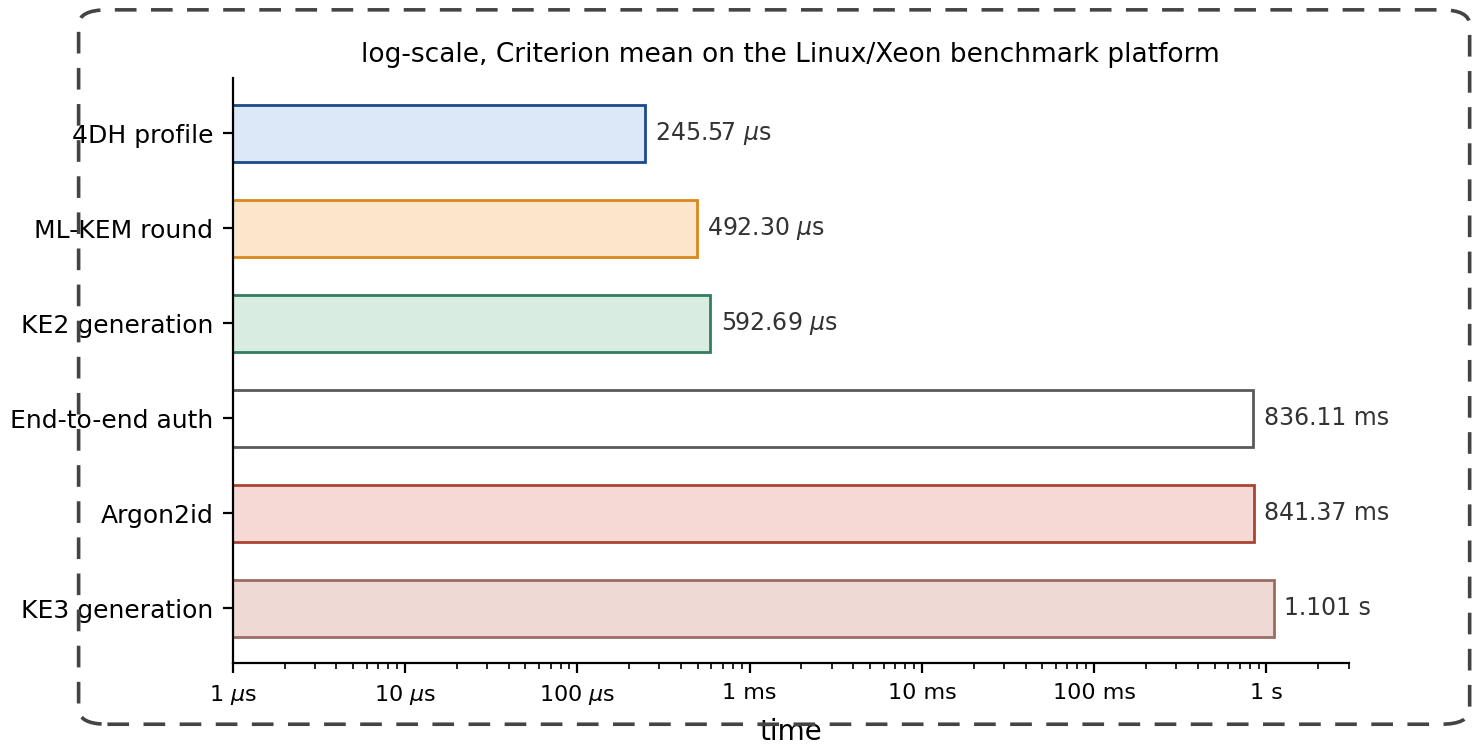
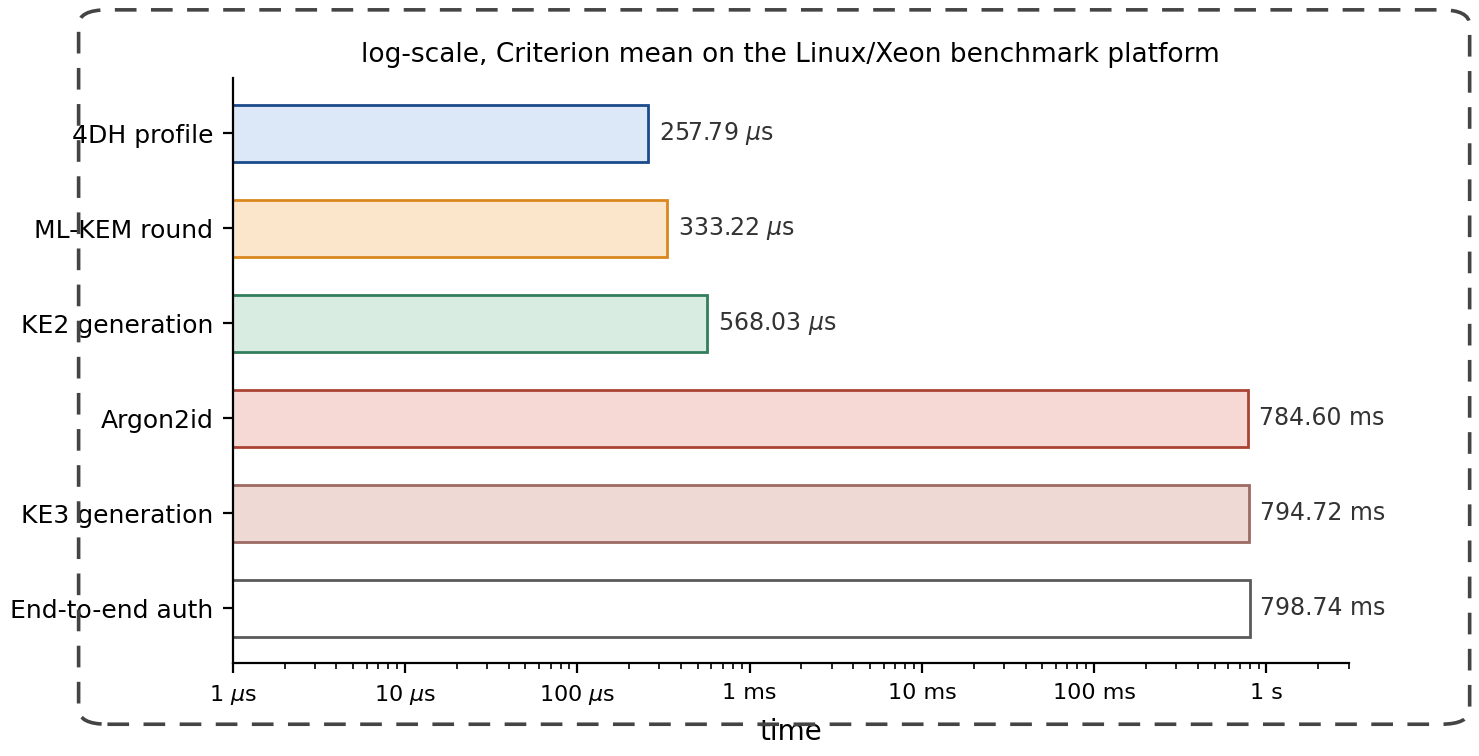
Sync benchmarks to a single-run measurement set; add KSF-variance caveat
- Replace micro-bench and protocol-bench tables with one coherent Criterion
  run on the Linux/Xeon platform. Resolves the prior cross-run anomalies:
  4DH 257.79us now exceeds 3DH 194.49us; KE3 794.72ms and registration
  828.64ms; end-to-end 798.74ms now sits at or above isolated Argon2id 784.60ms.
- Update abstract, conclusion, and prose: PQ overhead 365.29us (+46.9%),
  0.046% of end-to-end, responder throughput 1.76e3/s.
- Add a caveat noting the three KSF-dominated rows each reduce to one Argon2id
  call, so tens-of-ms differences are measurement variance, not cost ordering.
- Regenerate Fig 6 from the updated BENCH values.

diff --git a/aPAKE/Hybrid PQ-OPAQUE aPAKE/main_jisa.tex b/aPAKE/Hybrid PQ-OPAQUE aPAKE/main_jisa.tex
@@ -161,7 +161,7 @@ machine-checked proof of implementation correctness.
 
 On the stated Linux/Xeon benchmark platform, the complete hybrid handshake
 occupies 2715~bytes in wire format. End-to-end authentication takes
-836.11~ms, and the post-quantum path without the key-stretching function adds 379.45~$\mu$s. The
+798.74~ms, and the post-quantum path without the key-stretching function adds 365.29~$\mu$s. The
 measurements show that Argon2id dominates latency, while ML-KEM mainly
 affects transport size. The main operational boundary is separation of
 $\sigoprf$ from passive authentication records.
@@ -1637,36 +1637,36 @@ behind this profile.
 \toprule
 Primitive & Operation & $\hat{\mu}$ & 95\% CI \\
 \midrule
-Ristretto255 & Key-pair generation & 41.85~$\mu$s & [39.47; 44.28] \\
-Ristretto255 & Single DH & 75.93~$\mu$s & [74.11; 77.90] \\
-Ristretto255 & 3DH (baseline) & 262.54~$\mu$s & [258.50; 266.58] \\
-Ristretto255 & \textbf{4DH (protocol profile)} & \textbf{245.57~$\mu$s} & [242.98; 249.55] \\
-ML-KEM-768 & Key-pair generation & 151.48~$\mu$s & [147.39; 155.63] \\
-ML-KEM-768 & Encapsulation & 146.50~$\mu$s & [142.58; 150.51] \\
-ML-KEM-768 & Decapsulation & 172.74~$\mu$s & [168.74; 176.75] \\
-ML-KEM-768 & \textbf{Full round} & \textbf{492.30~$\mu$s} & [479.59; 505.34] \\
-OPRF & Blinding & 115.63~$\mu$s & [113.63; 117.64] \\
-OPRF & Responder evaluation & 76.39~$\mu$s & [74.95; 77.85] \\
-OPRF & Finalization & 109.11~$\mu$s & [107.29; 110.91] \\
-HKDF & Extract & 3.63~$\mu$s & [3.52; 3.74] \\
-HKDF & Expand (64~bytes) & 2.26~$\mu$s & [2.20; 2.33] \\
-HMAC-SHA-512 & 256~bytes & 2.92~$\mu$s & [2.90; 2.94] \\
-XSalsa20-Poly1305 & Encrypt 96~bytes & 2.52~$\mu$s & [2.49; 2.57] \\
-XSalsa20-Poly1305 & Decrypt 96~bytes & 2.67~$\mu$s & [2.66; 2.69] \\
-Argon2id & \textbf{MODERATE} & \textbf{841.37~ms} & [830.54; 851.96] \\
-Hybrid combiner & HKDF-Extract (160~bytes) & 2.49~$\mu$s & [2.47; 2.50] \\
+Ristretto255 & Key-pair generation & 29.09~$\mu$s & [28.81; 29.42] \\
+Ristretto255 & Single DH & 63.10~$\mu$s & [62.86; 63.39] \\
+Ristretto255 & 3DH (baseline) & 194.49~$\mu$s & [193.19; 195.90] \\
+Ristretto255 & \textbf{4DH (protocol profile)} & \textbf{257.79~$\mu$s} & [256.40; 259.26] \\
+ML-KEM-768 & Key-pair generation & 103.32~$\mu$s & [102.34; 104.59] \\
+ML-KEM-768 & Encapsulation & 100.50~$\mu$s & [99.61; 101.48] \\
+ML-KEM-768 & Decapsulation & 118.16~$\mu$s & [116.99; 119.38] \\
+ML-KEM-768 & \textbf{Full round} & \textbf{333.22~$\mu$s} & [329.65; 337.39] \\
+OPRF & Blinding & 82.28~$\mu$s & [81.72; 82.84] \\
+OPRF & Responder evaluation & 57.34~$\mu$s & [57.10; 57.57] \\
+OPRF & Finalization & 84.21~$\mu$s & [83.39; 85.00] \\
+HKDF & Extract & 2.25~$\mu$s & [2.24; 2.27] \\
+HKDF & Expand (64~bytes) & 2.05~$\mu$s & [2.04; 2.07] \\
+HMAC-SHA-512 & 256~bytes & 2.66~$\mu$s & [2.63; 2.71] \\
+XSalsa20-Poly1305 & Encrypt 96~bytes & 2.34~$\mu$s & [2.32; 2.35] \\
+XSalsa20-Poly1305 & Decrypt 96~bytes & 2.56~$\mu$s & [2.54; 2.57] \\
+Argon2id & \textbf{MODERATE} & \textbf{784.60~ms} & [779.12; 792.55] \\
+Hybrid combiner & HKDF-Extract (160~bytes) & 2.44~$\mu$s & [2.40; 2.49] \\
 \bottomrule
 \end{tabular*}
 \end{table}
 
 The micro-benchmarks show three stable relationships. First, the full
-ML-KEM-768 round ($492.30~\mu$s) and the measured 4DH protocol profile
-($245.57~\mu$s) remain sub-millisecond operations, so the
+ML-KEM-768 round ($333.22~\mu$s) and the measured 4DH protocol profile
+($257.79~\mu$s) remain sub-millisecond operations, so the
 post-quantum layer does not alter the computational class of the
-protocol. Second, Argon2id ($841.37$~ms in isolated measurement)
+protocol. Second, Argon2id ($784.60$~ms in isolated measurement)
 dominates all other components and determines the perceived
 authentication latency. Third, the hybrid key-extraction step
-($2.49~\mu$s) is negligible relative to the KSF and does not
+($2.44~\mu$s) is negligible relative to the KSF and does not
 constitute a separate bottleneck.
 
 \subsection{Protocol-Level Benchmarks}
@@ -1686,35 +1686,40 @@ Criterion workloads that are not additive across rows}
 \toprule
 Phase & Measurement scenario & $\hat{\mu}$ & 95\% CI & Main cost \\
 \midrule
-Registration & Registration-request creation & 127.37~$\mu$s & [125.24; 130.09] & OPRF blinding \\
-Registration & Responder response creation & 71.42~$\mu$s & [70.98; 71.84] & OPRF evaluation \\
-Registration & Registration completion & \textbf{1.065~s} & [993.93~ms; 1.143~s] & \textbf{Argon2id} \\
-Authentication & KE1 generation & 304.87~$\mu$s & [288.05; 322.18] & OPRF + ML-KEM keygen \\
-Authentication & KE2 generation & 592.69~$\mu$s & [582.16; 606.72] & 4DH + ML-KEM encapsulation \\
-Authentication & KE3 generation at the initiator & \textbf{1.101~s} & [1.034; 1.169]~s & \textbf{Argon2id} + decapsulation \\
-Authentication & Final responder verification & 2.61~$\mu$s & [2.31; 3.06] & MAC verification \\
+Registration & Registration-request creation & 115.09~$\mu$s & [114.39; 115.92] & OPRF blinding \\
+Registration & Responder response creation & 72.21~$\mu$s & [71.79; 72.71] & OPRF evaluation \\
+Registration & Registration completion & \textbf{828.64~ms} & [796.15; 871.41]~ms & \textbf{Argon2id} \\
+Authentication & KE1 generation & 229.55~$\mu$s & [228.36; 230.88] & OPRF + ML-KEM keygen \\
+Authentication & KE2 generation & 568.03~$\mu$s & [564.08; 573.06] & 4DH + ML-KEM encapsulation \\
+Authentication & KE3 generation at the initiator & \textbf{794.72~ms} & [789.27; 800.85]~ms & \textbf{Argon2id} + decapsulation \\
+Authentication & Final responder verification & 2.21~$\mu$s & [1.96; 2.60] & MAC verification \\
 \midrule
-Full & End-to-end authentication cycle & \textbf{836.11~ms} & [825.41; 847.99] & \textbf{Argon2id} \\
+Full & End-to-end authentication cycle & \textbf{798.74~ms} & [795.34; 801.96] & \textbf{Argon2id} \\
 \bottomrule
 \end{tabularx}
 \end{table}
 
 Responder KE2 generation remains a sub-millisecond operation, whereas Argon2id
-contributes the overwhelming share of time.
+contributes the overwhelming share of time. The three key-stretching rows,
+registration completion, KE3 generation, and the end-to-end cycle, each reduce to
+a single Argon2id evaluation, so they cluster around the isolated KSF cost near
+785~ms. The differences of a few tens of milliseconds among them sit inside the
+variance of that memory-hard step rather than reflecting a real cost ordering, and
+the wider interval on registration completion follows from its batched sampling.
 
 \subsection{Key Quantitative Findings and Implementation Implications}
 
 The isolated responder profile shows that the responder's cryptographic
 core stays compatible with high-throughput deployment. Isolated KE2
-generation takes 592.69~$\mu$s, while final responder verification takes
-only 2.61~$\mu$s. For a cryptography-bound responder, this implies a
-theoretical upper bound of roughly $1.69 \times 10^3$ authentications per
+generation takes 568.03~$\mu$s, while final responder verification takes
+only 2.21~$\mu$s. For a cryptography-bound responder, this implies a
+theoretical upper bound of roughly $1.76 \times 10^3$ authentications per
 second per core, once we set aside database access, telemetry, and
 business logic.
 
 For the complete authentication without the KSF, the post-quantum component adds
-379.45~$\mu$s ($+48.3\%$) of CPU time. Set against the Argon2id
-background, that excess shrinks to roughly $0.045\%$ of a typical
+365.29~$\mu$s ($+46.9\%$) of CPU time. Set against the Argon2id
+background, that excess shrinks to roughly $0.046\%$ of a typical
 end-to-end scenario. The real trade-off is therefore not CPU cost but
 network volume. The complete handshake occupies
 2715~bytes in wire format, which is 2272~bytes more than the classical
@@ -1741,7 +1746,7 @@ and key-derivation work introduced by the hybrid path. Then
 \]
 On the benchmark platform, this corresponds to a measured increase of
 $C_{\mathrm{DH}} + C_{\mathrm{KEM}} + C_{\mathrm{misc}}
-\approx 379.45~\mu$s without the
+\approx 365.29~\mu$s without the
 KSF. Compared with the established baseline of classical OPAQUE, the
 cost for honest parties rises additively, and the interaction profile is
 unchanged. Within the present threat model, explicit compromise of the
@@ -1856,10 +1861,10 @@ authentication profile that adds ML-KEM-768 to the authenticated transcript
 while leaving the KE1--KE2--KE3 interaction pattern unchanged. The
 complete hybrid handshake occupies 2715~bytes on the wire, a
 2272-byte expansion over the classical format. On the stated Linux/Xeon
-platform, the full authentication workload runs in 836.11~ms, the
-isolated ML-KEM-768 round in 492.30~$\mu$s, the 4DH protocol profile in
-245.57~$\mu$s, and the KSF-free post-quantum path adds
-379.45~$\mu$s. Read together, these numbers locate the cost where it
+platform, the full authentication workload runs in 798.74~ms, the
+isolated ML-KEM-768 round in 333.22~$\mu$s, the 4DH protocol profile in
+257.79~$\mu$s, and the KSF-free post-quantum path adds
+365.29~$\mu$s. Read together, these numbers locate the cost where it
 actually falls. Argon2id dominates latency, whereas ML-KEM mainly changes
 the transport budget.
 

diff --git a/aPAKE/Hybrid PQ-OPAQUE aPAKE/figures/make_figures.py b/aPAKE/Hybrid PQ-OPAQUE aPAKE/figures/make_figures.py
@@ -132,12 +132,12 @@ def fig5():
 
 # ---------------- Figure 6: runtime profile ----------------
 # values in microseconds; (label, value_us, display, color)
-BENCH=[('4DH profile',245.57,r'245.57 $\mu$s',BLUE),
-       ('ML-KEM round',492.30,r'492.30 $\mu$s',ORANGE),
-       ('KE2 generation',592.69,r'592.69 $\mu$s',GREEN),
-       ('End-to-end auth',836110.0,'836.11 ms',GRAY),
-       ('Argon2id',841370.0,'841.37 ms',RED),
-       ('KE3 generation',1101000.0,'1.101 s',('#efd9d4','#9c6b63'))]
+BENCH=[('4DH profile',257.79,r'257.79 $\mu$s',BLUE),
+       ('ML-KEM round',333.22,r'333.22 $\mu$s',ORANGE),
+       ('KE2 generation',568.03,r'568.03 $\mu$s',GREEN),
+       ('Argon2id',784600.0,'784.60 ms',RED),
+       ('KE3 generation',794720.0,'794.72 ms',('#efd9d4','#9c6b63')),
+       ('End-to-end auth',798740.0,'798.74 ms',GRAY)]
 def fig6():
     fig,ax=plt.subplots(figsize=(7.2,3.8),dpi=130)
     labels=[b[0] for b in BENCH][::-1]; vals=[b[1] for b in BENCH][::-1]